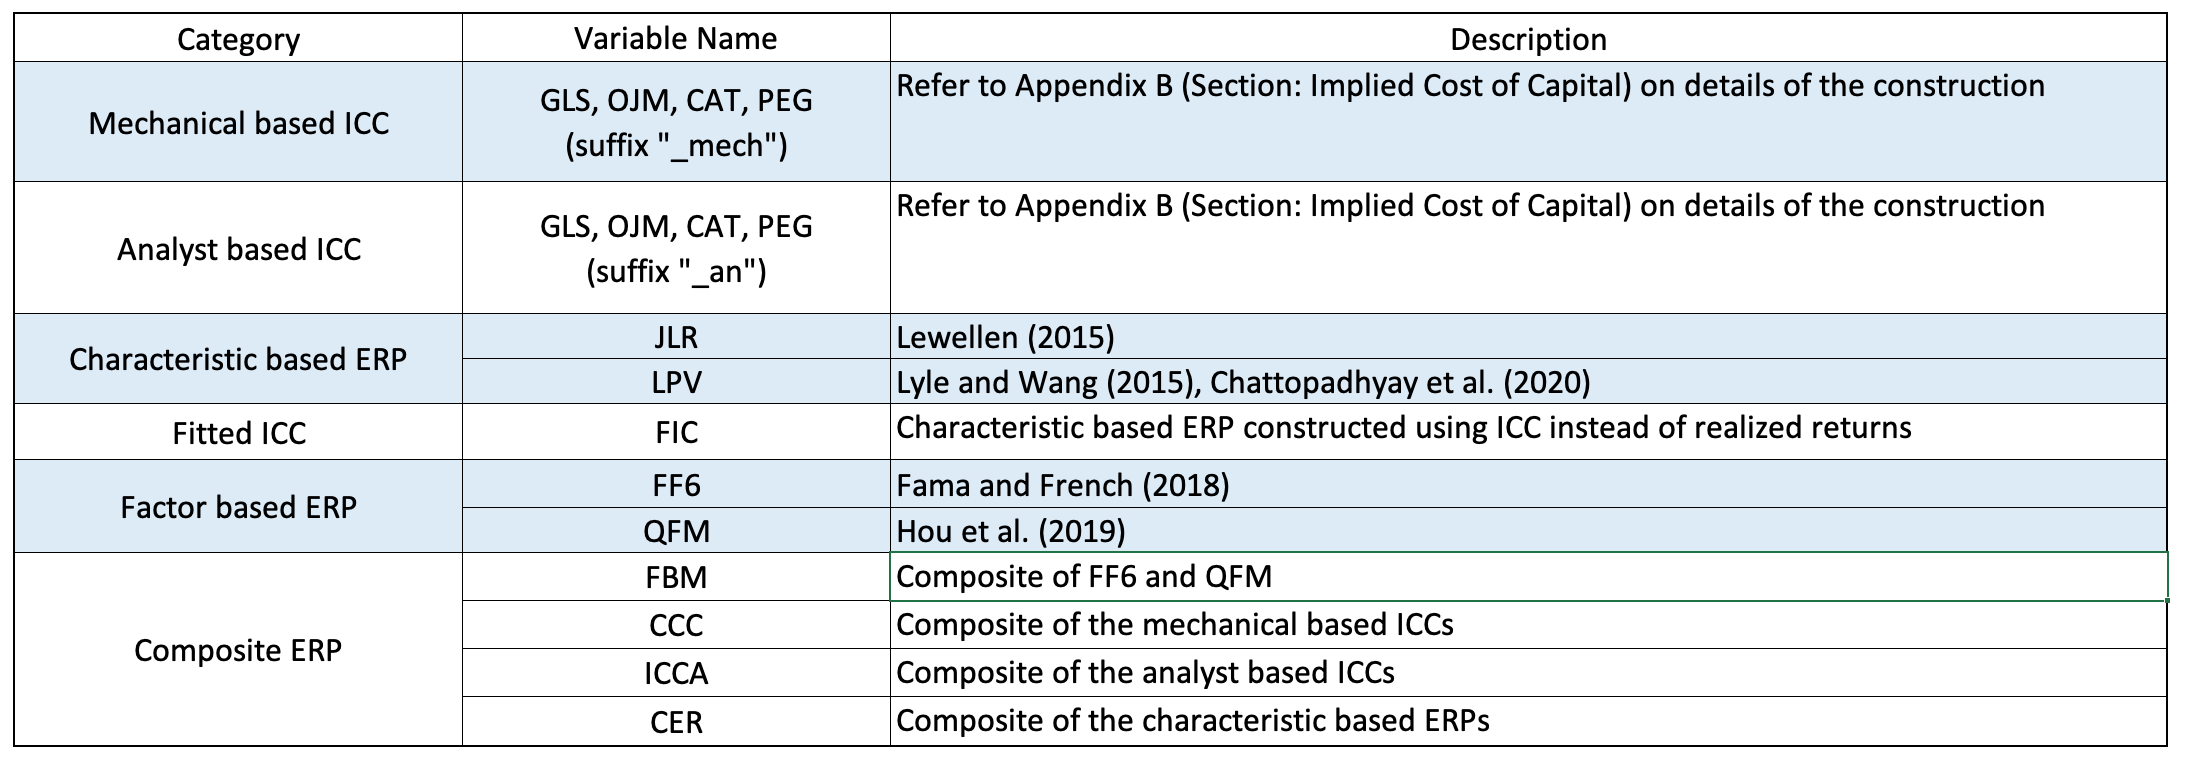
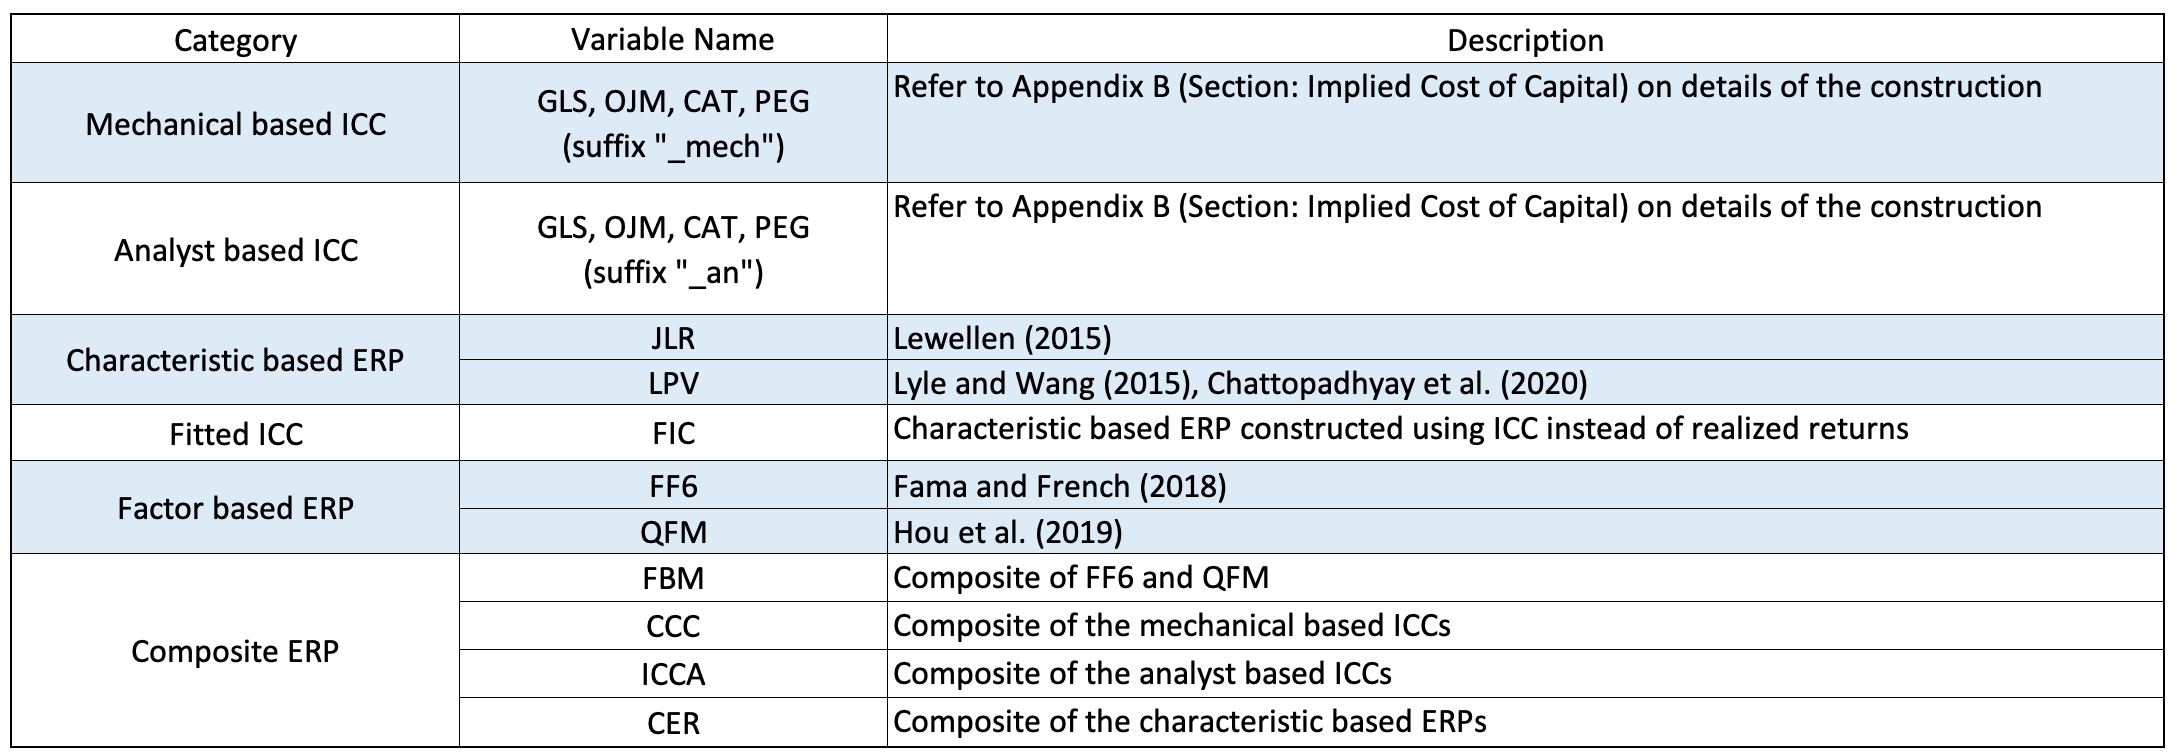
updates image sizing and updates links

diff --git a/index.html b/index.html
@@ -78,7 +78,9 @@
 
 			<em> Paper Link </em>: <a href="https://academic.oup.com/rfs/article-abstract/34/4/1907/5855684">Evaluating Firm-Level Expected-Return Proxies: Implications for Estimating Treatment Effects</a>
 			<br>
-			<em>Download Link</em>: <a href="https://www.dropbox.com/s/sget9fhfk6w7h2h/erp_public_211022.dta?dl=0"> Dropbox (Latest Version) </a> 
+			<em>Download Link (ERPs)</em>: <a href="https://www.dropbox.com/s/ujpo1vnsrq9g5kn/erp_public_211022.dta?dl=0"> Dropbox (Latest Version) </a> 
+			<br>
+			<em>Download Link (Coefficients for JLR, LPV, FIC)</em>: <a href="https://www.dropbox.com/s/of8rh3rv24ytybq/erp_public_coefs_211022.dta?dl=0"> Dropbox (Latest Version) </a> 
 		</div>
 
 		<div class="main-box">

diff --git a/css/style.css b/css/style.css
@@ -18,6 +18,7 @@ div {
 
 .main-box {
 	margin: 15px;
+	width: 75%;
 }
 
 .side {
@@ -34,13 +35,13 @@ div {
 }
 
 img.headshot {
-	width: 5em;
-	height: 5em;
+	width: 50%;
+	height: 50%;
 }
 
 img.table{
-	width: 100%;
-	height: 100%;
+	width: 85%;
+	height: 85%;
 
 }
 
@@ -48,6 +49,7 @@ img.table{
 	margin-left: 40px;
 	margin-right: 40px;
 	font-style:italic;
+	width: 75%;
 }
 
 /*.footer {
